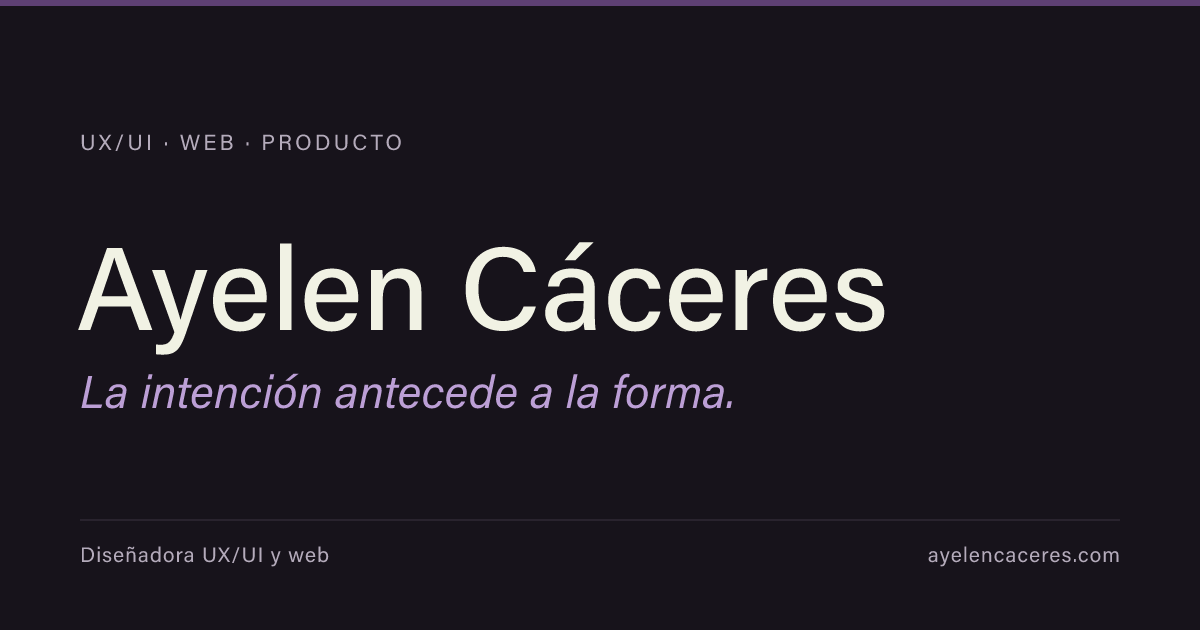
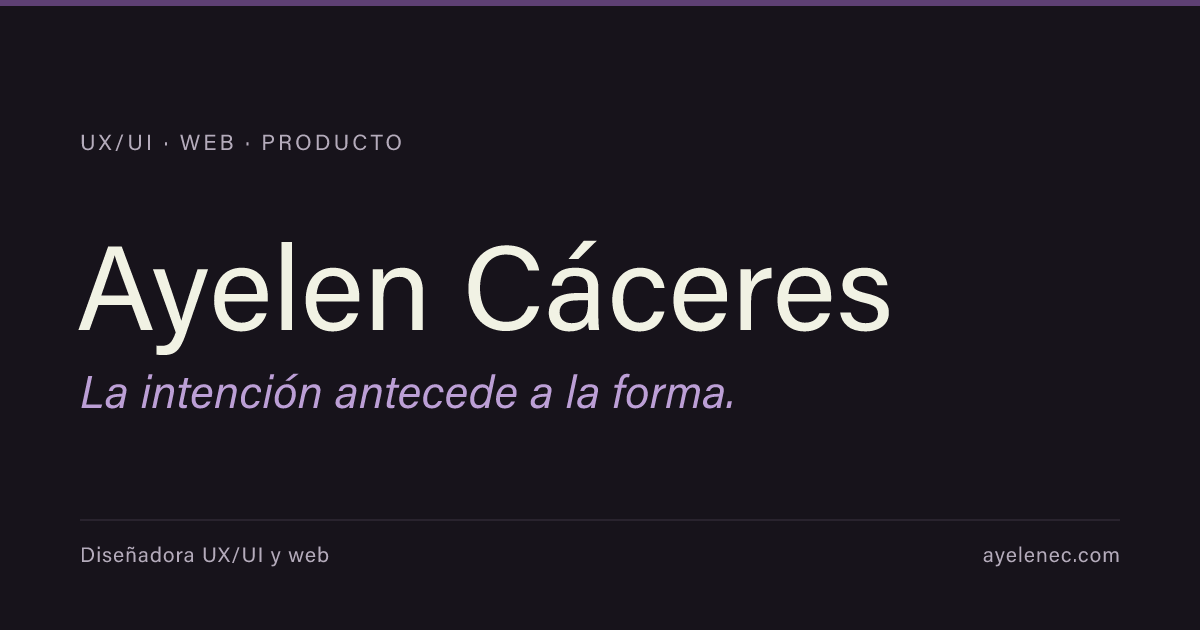
Usar dominio definitivo ayelenec.com (canonical, OG, sitemap, robots)

diff --git a/src/data/site.ts b/src/data/site.ts
@@ -34,7 +34,7 @@ export const site = {
   location: 'Resistencia, Chaco · Argentina',
 
   // --- SEO ---
-  url: 'https://ayelencaceres.com',
+  url: 'https://ayelenec.com',
   title: 'Ayelen Cáceres — Diseñadora UX/UI y web',
   description:
     'Diseño interfaces claras para productos digitales y sitios web. Investigación, diseño, desarrollo y SEO en un mismo proceso. Resistencia, Chaco · remoto.',

diff --git a/README.md b/README.md
@@ -49,5 +49,5 @@ public/
 - [ ] Mockups de los proyectos (`/public/work/`).
 - [ ] Retrato para "Sobre mí".
 - [ ] LinkedIn, Behance y CV (`/cv-ayelen-caceres.pdf`).
-- [ ] Dominio definitivo (hoy `ayelencaceres.com` como placeholder).
+- [ ] Terminar de conectar el dominio `ayelenec.com` en Cloudflare y verificar HTTPS.
 - [ ] Decidir si el sitio arranca bilingüe (estructura lista para `/en/`).
